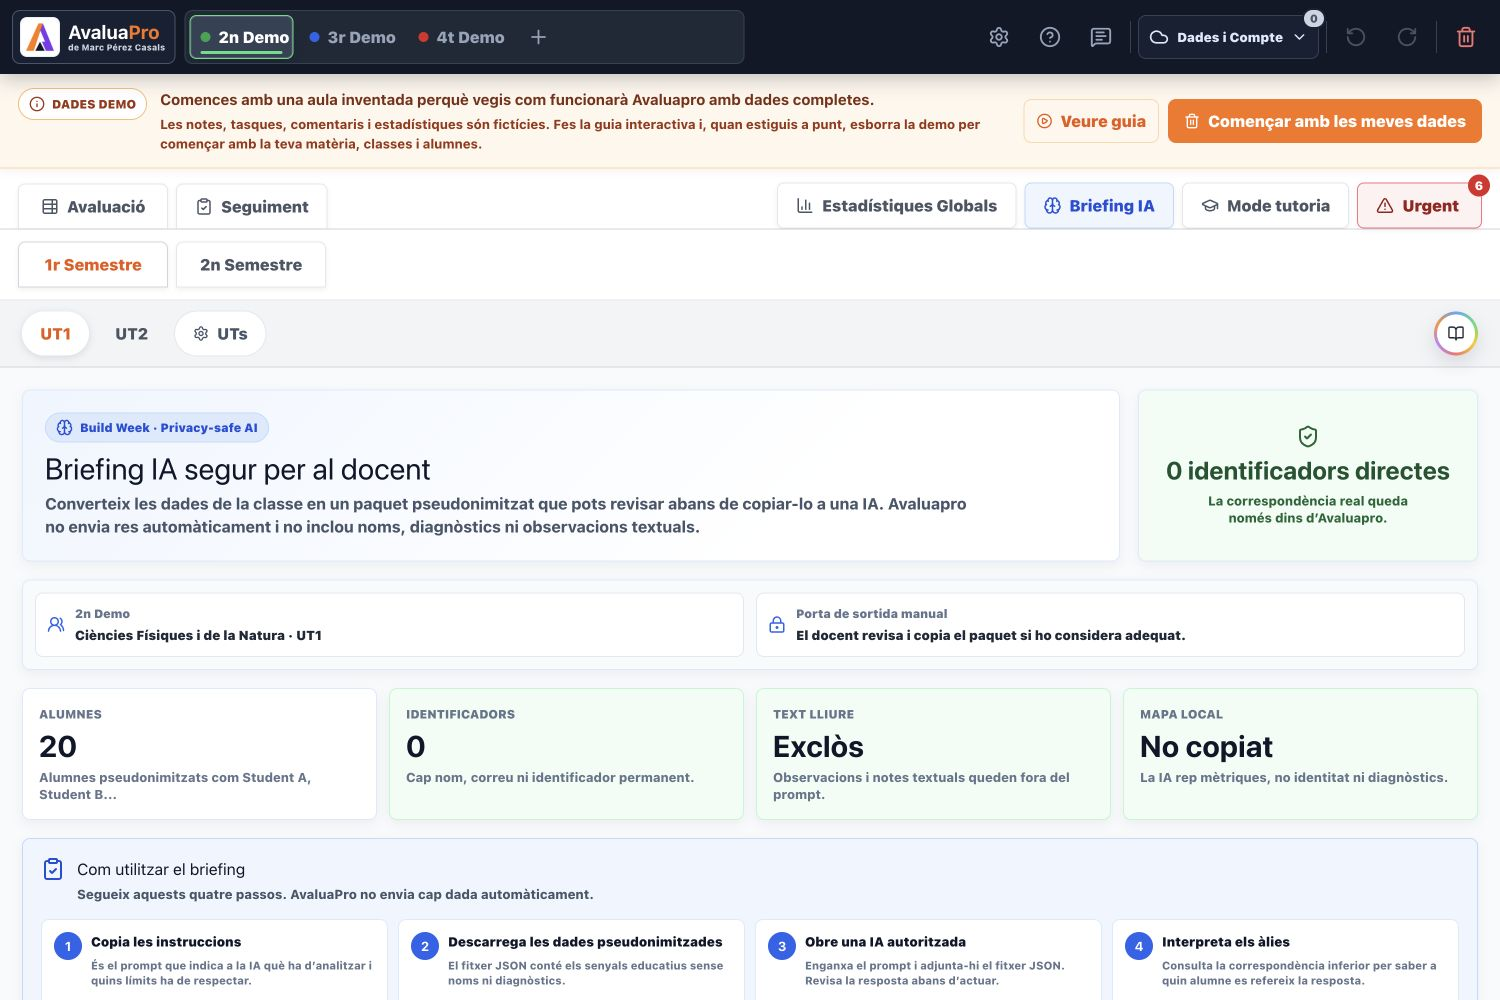
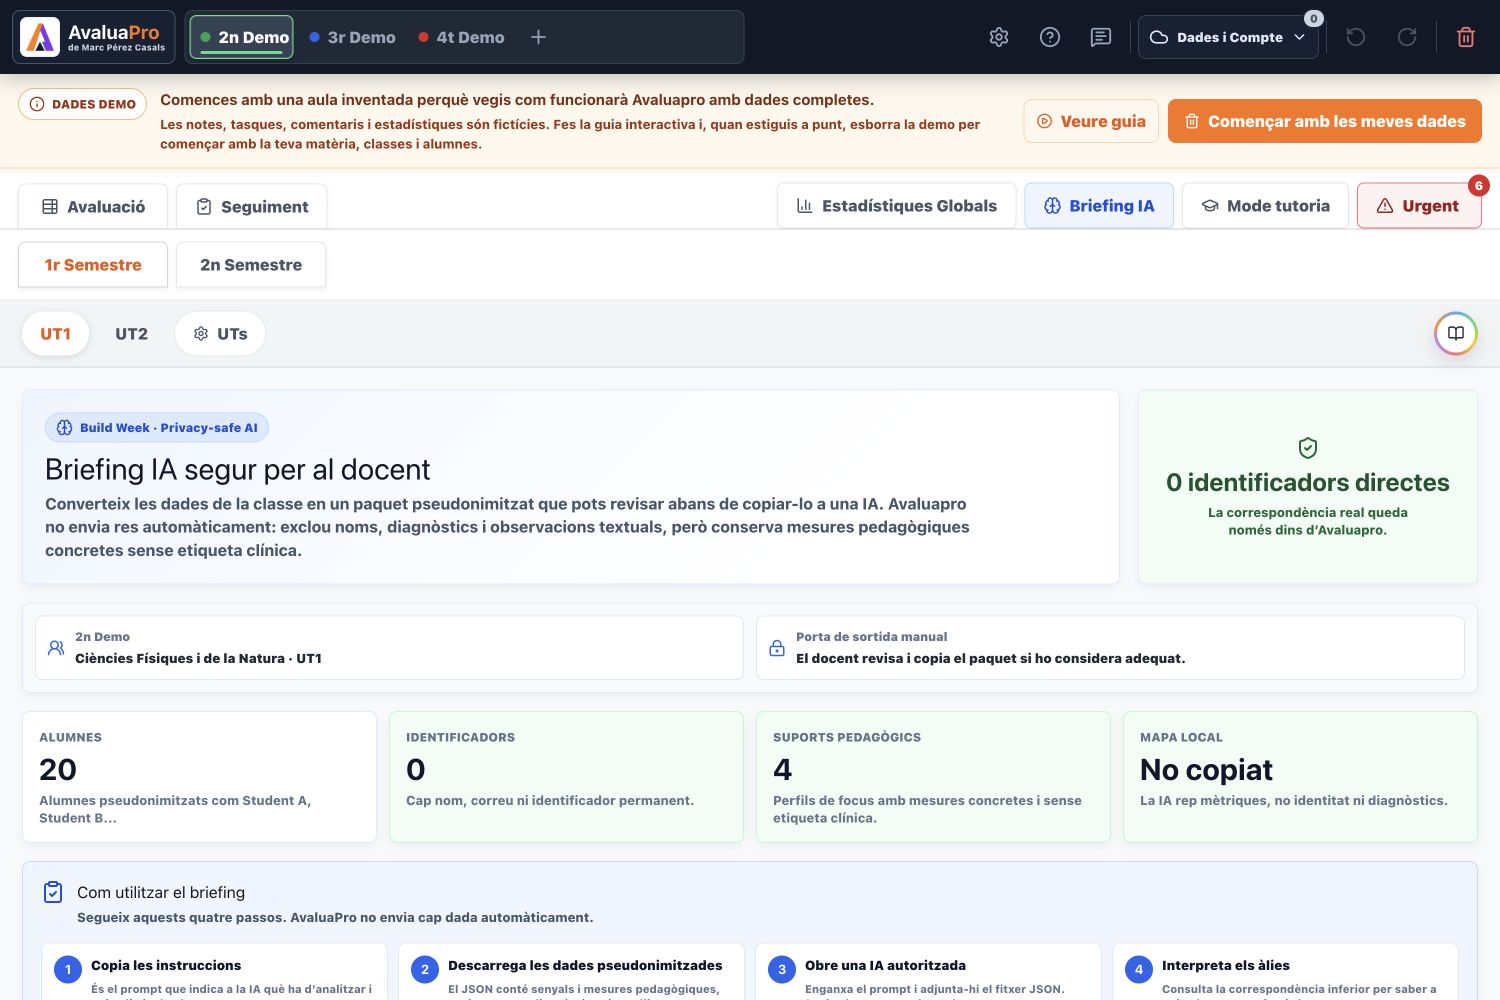
Afegeix suports pedagogics al briefing IA

diff --git a/src/lib/aiTeacherBriefing.js b/src/lib/aiTeacherBriefing.js
@@ -3,6 +3,50 @@ import { getNumericFromGrade } from './grades.js'
 
 const ALIAS_PREFIX = 'Student'
 const MAX_FOCUS_STUDENTS = 8
+const MAX_SUPPORT_NEEDS_PER_STUDENT = 4
+
+const PEDAGOGICAL_SUPPORT_NEEDS = {
+  dyslexia: [
+    'use short, clearly structured instructions',
+    'offer visual or audio access to written content',
+    'allow additional reading and writing time',
+    'offer alternative ways to demonstrate learning',
+  ],
+  dyscalculia: [
+    'break multistep calculations into visible steps',
+    'use visual or concrete representations for mathematical ideas',
+    'allow additional processing time for mathematical tasks',
+    'prioritize reasoning over speed when speed is not the objective',
+  ],
+  tdah: [
+    'use short, single-step instructions',
+    'break long tasks into visible short stages',
+    'use frequent, discreet check-ins',
+    'reduce distractions and allow brief regulation pauses',
+  ],
+  tea: [
+    'use clear, literal and predictable instructions',
+    'anticipate changes in routine or activity',
+    'provide visual schedules and explicit sequences',
+    'make roles and expectations explicit in group work',
+  ],
+  'qi-tdl': [
+    'use short, sequenced instructions with visual support',
+    'check comprehension and reformulate when needed',
+    'allow additional processing and response time',
+    'reduce linguistic load when language is not the learning objective',
+  ],
+  progress: [
+    'set short, observable and achievable learning goals',
+    'make progress visible through frequent formative feedback',
+    'prioritize the next essential learning step',
+  ],
+  'high-capacity': [
+    'offer extension, depth and transfer tasks',
+    'reduce repetitive practice when content is already secure',
+    'allow varied products or self-directed challenges',
+  ],
+}
 
 const EXCLUDED_FROM_AI_PACKAGE = [
   'student names',
@@ -142,6 +186,22 @@ function getSuggestedFocus(signals) {
   return 'Monitor with a short, observable follow-up.'
 }
 
+function getPedagogicalSupportNeeds(diagnoses) {
+  const supportSets = safeArray(diagnoses)
+    .map((diagnosis) => PEDAGOGICAL_SUPPORT_NEEDS[diagnosis] || [])
+    .filter((needs) => needs.length > 0)
+  const interleavedNeeds = []
+  const longestSet = Math.max(0, ...supportSets.map((needs) => needs.length))
+
+  for (let needIndex = 0; needIndex < longestSet; needIndex += 1) {
+    supportSets.forEach((needs) => {
+      if (needs[needIndex]) interleavedNeeds.push(needs[needIndex])
+    })
+  }
+
+  return [...new Set(interleavedNeeds)].slice(0, MAX_SUPPORT_NEEDS_PER_STUDENT)
+}
+
 function buildFocusStudents({ aliasMap, profiles, relations }) {
   return profiles
     .map((profile) => {
@@ -167,6 +227,7 @@ function buildFocusStudents({ aliasMap, profiles, relations }) {
         },
         sociometric: relationStats,
         signals,
+        pedagogicalSupportNeeds: getPedagogicalSupportNeeds(profile.student.diagnoses),
         suggestedFocus: getSuggestedFocus(signals),
         priorityScore,
       }
@@ -253,6 +314,8 @@ function buildPromptPackage({ activeClass, activeUt, aliasMap, classId, profiles
       localIdentityMapIncluded: false,
       freeTextIncluded: false,
       diagnosisLabelsIncluded: false,
+      pedagogicalSupportNeedsIncluded: true,
+      supportNeedsIncludeDiagnosisLabels: false,
       excludedFields: EXCLUDED_FROM_AI_PACKAGE,
       humanReviewRequired: true,
     },
@@ -289,6 +352,7 @@ export function buildAiTeacherBriefingPrompt() {
     'You are an educational planning assistant helping a teacher prepare the next intervention.',
     '',
     'Use only the pseudonymized classroom signals in the attached JSON file. Do not infer identity, diagnosis, family situation, or protected attributes. Do not make final decisions. Produce practical options for human review.',
+    'Pedagogical support needs describe classroom accommodations without diagnosis labels. Use them to contextualize patterns, but never infer or name a diagnosis from them.',
     '',
     'Return:',
     '1. A 5-bullet class briefing.',

diff --git a/src/features/ai/AiTeacherBriefingView.jsx b/src/features/ai/AiTeacherBriefingView.jsx
@@ -109,6 +109,9 @@ export function AiTeacherBriefingView() {
   const { activeClass, activeUt, localIdentityMap, promptPackage, promptText } = briefing
   const promptJson = JSON.stringify(promptPackage, null, 2)
   const excludedFields = promptPackage.privacyGuardrails.excludedFields || []
+  const supportProfileCount = (promptPackage.focusStudents || []).filter(
+    (student) => student.pedagogicalSupportNeeds?.length > 0,
+  ).length
   const activeClassLabel = activeClass?.name || 'Classe activa'
 
   return (
@@ -122,7 +125,8 @@ export function AiTeacherBriefingView() {
           <h2>Briefing IA segur per al docent</h2>
           <p>
             Converteix les dades de la classe en un paquet pseudonimitzat que pots revisar abans de copiar-lo a una IA.
-            Avaluapro no envia res automàticament i no inclou noms, diagnòstics ni observacions textuals.
+            Avaluapro no envia res automàticament: exclou noms, diagnòstics i observacions textuals, però conserva
+            mesures pedagògiques concretes sense etiqueta clínica.
           </p>
         </div>
         <aside>
@@ -162,10 +166,10 @@ export function AiTeacherBriefingView() {
           value="0"
         />
         <BriefingMetric
-          helper="Observacions i notes textuals queden fora del prompt."
-          label="Text lliure"
+          helper="Perfils de focus amb mesures concretes i sense etiqueta clínica."
+          label="Suports pedagògics"
           tone="positive"
-          value="Exclòs"
+          value={supportProfileCount}
         />
         <BriefingMetric
           helper="La IA rep mètriques, no identitat ni diagnòstics."
@@ -196,7 +200,7 @@ export function AiTeacherBriefingView() {
             <strong>2</strong>
             <div>
               <span>Descarrega les dades pseudonimitzades</span>
-              <small>El fitxer JSON conté els senyals educatius sense noms ni diagnòstics.</small>
+              <small>El JSON conté senyals i mesures pedagògiques, però no noms, diagnòstics ni text lliure.</small>
               <DownloadButton content={promptJson} />
             </div>
           </li>
@@ -226,7 +230,7 @@ export function AiTeacherBriefingView() {
             <h3>Què queda fora del paquet IA</h3>
             <p>
               Aquest filtre és intencionat: redueix risc abans d’usar qualsevol proveïdor d’IA i obliga a mantenir
-              revisió humana.
+              revisió humana. Les mesures pedagògiques s’inclouen sense indicar el diagnòstic que les pot haver motivat.
             </p>
           </div>
         </div>

diff --git a/tests/ai-teacher-briefing.test.js b/tests/ai-teacher-briefing.test.js
@@ -60,9 +60,15 @@ describe('privacy-safe AI teacher briefing', () => {
     assert.doesNotMatch(copiedPayload, /tdah/i)
     assert.doesNotMatch(copiedPayload, /Private note/)
     assert.doesNotMatch(copiedPayload, /Raw text mentioning/)
+    assert.match(copiedPayload, /use short, single-step instructions/)
     assert.equal(briefing.promptPackage.privacyGuardrails.directIdentifiersIncluded, false)
     assert.equal(briefing.promptPackage.privacyGuardrails.localIdentityMapIncluded, false)
     assert.equal(briefing.promptPackage.privacyGuardrails.freeTextIncluded, false)
+    assert.equal(briefing.promptPackage.privacyGuardrails.pedagogicalSupportNeedsIncluded, true)
+    assert.equal(briefing.promptPackage.privacyGuardrails.supportNeedsIncludeDiagnosisLabels, false)
+    assert.ok(
+      briefing.promptPackage.focusStudents[0].pedagogicalSupportNeeds.includes('use short, single-step instructions'),
+    )
     assert.equal(briefing.localIdentityMap[0].name, 'Oriol Segarra Puig')
   })
 
@@ -97,5 +103,23 @@ describe('privacy-safe AI teacher briefing', () => {
     assert.ok(firstFocus.signals.includes('low achievement'))
     assert.ok(firstFocus.signals.includes('low work consistency'))
     assert.equal(briefing.promptPackage.competencyFocus[0].competency, 'C1: Reasoning')
+  })
+
+  it('exports concrete support needs without exposing the diagnosis that motivated them', () => {
+    const state = baseState({
+      competencies: [{ id: 'comp_1', name: 'C1: Reasoning', order: 1, utId: 'ut_1' }],
+      criteria: [{ competencyId: 'comp_1', id: 'crit_1' }],
+      marks: [{ criterionId: 'crit_1', id: 'mark_1', studentId: 'student_1', value: 'D' }],
+      students: [{ classId: 'class_1', diagnoses: ['qi-tdl'], id: 'student_1', name: 'Student One' }],
+    })
+
+    const briefing = buildPrivacySafeTeacherBriefing(state)
+    const packageText = JSON.stringify(briefing.promptPackage)
+    const [firstFocus] = briefing.promptPackage.focusStudents
+
+    assert.doesNotMatch(packageText, /qi-tdl/i)
+    assert.doesNotMatch(packageText, /\btdl\b/i)
+    assert.match(packageText, /allow additional processing and response time/)
+    assert.ok(firstFocus.pedagogicalSupportNeeds.length <= 4)
   })
 })

diff --git a/docs/devpost-video-script-en.md b/docs/devpost-video-script-en.md
@@ -15,8 +15,8 @@ Use the live fictitious demo at <https://avaluapro.web.app/>. Do not sign in and
 | 0:15-0:35 | Show competency assessment, then cut to `Seguiment` with tasks, completion states and consistency percentages. | **Teachers can assess competencies, record daily work, follow consistency and behavior, and spot changes throughout the course. Information that was previously scattered becomes one practical classroom workflow.** |
 | 0:35-0:57 | Cut between `Estadístiques Globals`, the main `Mode tutoria` diagnostic, and `Relacions i grups`. Finish with cooperative groups or the seating plan. | **Global analytics connect achievement, habits and behavior. Tutor mode adds sociometry, individual and group diagnostics, cooperative groups and classroom seating, helping teachers turn daily records into personalized action.** |
 | 0:57-1:10 | Return briefly to the global view, then click `Briefing IA`. Pause on its title. | **This working classroom-intelligence foundation existed before Build Week. During the challenge, I used OpenAI Codex to add a new privacy-conscious bridge between all this educational context and AI.** |
-| 1:10-1:32 | Show the title, `0 identificadors directes`, the four summary cards and the excluded-fields list. | **The new AI Teacher Briefing analyzes the fictitious classroom and first applies a privacy gate: zero direct identifiers, no raw free text, no diagnosis labels, and no copied identity map.** |
-| 1:32-1:55 | Show the four-step workflow, `Copiar prompt` and `Descarregar paquet JSON`. Do not upload the demo file anywhere during the recording. | **The teacher copies the instructions and downloads a separate JSON file containing selected competency, consistency, behavior and group signals. Both actions are explicit, and nothing is sent automatically.** |
+| 1:10-1:32 | Show the title, `0 identificadors directes`, the four summary cards and the excluded-fields list. | **The privacy gate removes direct identifiers, raw text and diagnosis labels. It keeps only concrete classroom support needs, such as shorter instructions or additional processing time, without naming their clinical origin.** |
+| 1:32-1:55 | Show the four-step workflow, `Copiar prompt` and `Descarregar paquet JSON`. Do not upload the demo file anywhere during the recording. | **The teacher copies the instructions and downloads a separate JSON file containing selected competency, consistency, behavior, group and pedagogical support signals. Both actions are explicit, and nothing is sent automatically.** |
 | 1:55-2:15 | Show the visible local correspondence, then briefly open the technical details and point at aliases such as `Student F`. | **The package is pseudonymized, not anonymous. The real correspondence stays inside AvaluaPro so the teacher can interpret the AI response, inspect the technical content and retain professional control.** |
 | 2:15-2:35 | Show the GitHub Build Week commit, the generator and React filenames, then a terminal with `npm run test:ai-briefing` passing. | **Codex helped inspect the architecture, build the generator and interface, integrate the workflow, and add privacy tests confirming that names, raw observations and the identity map stay out of the copied package.** |
 | 2:35-2:48 | Return to the top of `Briefing IA`, ending on the title and zero-identifiers panel. | **AvaluaPro does not replace professional judgment. It helps teachers see the right patterns earlier, with privacy and the teacher kept firmly in the loop.** |

diff --git a/docs/proteccio-dades-avaluapro.md b/docs/proteccio-dades-avaluapro.md
@@ -93,13 +93,19 @@ Enviar `alumne A` en lloc del nom es una bona practica, pero normalment continua
 Arquitectura recomanada:
 
 1. no enviar noms, correus, fotos, dades familiars ni diagnostics;
-2. filtrar observacions i limitar text lliure;
-3. enviar el minim context necessari amb un identificador temporal;
-4. no permetre entrenament amb les dades;
-5. establir contracte, ubicacio, retencio i subencarregats;
-6. registrar la finalitat i l'operacio;
-7. mantenir decisio i revisio humana;
-8. activar IA nomes despres de l'AIPD i l'autoritzacio institucional.
+2. si cal context de suport, transformar localment les etiquetes en mesures pedagogiques controlades, sense exportar
+   l'etiqueta clinica ni el seu origen;
+3. filtrar observacions i limitar text lliure;
+4. enviar el minim context necessari amb un identificador temporal;
+5. no permetre entrenament amb les dades;
+6. establir contracte, ubicacio, retencio i subencarregats;
+7. registrar la finalitat i l'operacio;
+8. mantenir decisio i revisio humana;
+9. activar IA nomes despres de l'AIPD i l'autoritzacio institucional.
+
+Les mesures pedagogiques derivades continuen sent dades personals pseudonimitzades i poden suggerir indirectament una
+necessitat educativa. Per tant, s'han de limitar als perfils rellevants, no s'han de descriure com a dades anonimes i han
+de seguir les mateixes garanties de proveidor, finalitat i revisio humana que la resta del paquet.
 
 ## 8. Recomanacio d'arquitectura
 

diff --git a/PRIVACY_FOR_JUDGES.md b/PRIVACY_FOR_JUDGES.md
@@ -80,6 +80,7 @@ The Build Week feature creates a deliberately reduced package from existing clas
 - limited sociometric counts;
 - cooperative-group availability;
 - selected focus-student signals under temporary aliases.
+- a limited set of concrete classroom support needs, without the diagnosis labels that may have motivated them.
 
 ### Excluded
 
@@ -92,7 +93,9 @@ The Build Week feature creates a deliberately reduced package from existing clas
 - the local alias-to-identity map.
 
 The package also records its own guardrails, including that human review is required and direct identifiers, diagnosis
-labels and free text are not included.
+labels and free text are not included. The prompt explicitly prohibits inferring a diagnosis from the support needs.
+These accommodations remain pseudonymized personal data and may still suggest an educational need indirectly; AvaluaPro
+does not present them as anonymous or risk-free.
 
 ## Encryption, Pseudonymization And Anonymization
 

diff --git a/BUILD_WEEK_2026.md b/BUILD_WEEK_2026.md
@@ -47,7 +47,9 @@ It does four things:
 2. Replaces student identities with aliases such as `Student A`, `Student B`, etc.
 3. Excludes names, surnames, emails, photos, diagnosis labels, family information, raw free-text observations and the
    local identity map.
-4. Generates a copyable prompt that asks an AI assistant for class-level and student-level teaching options, while
+4. Converts configured needs into a small controlled set of concrete classroom accommodations without exporting their
+   diagnosis labels.
+5. Generates a copyable prompt that asks an AI assistant for class-level and student-level teaching options, while
    requiring human review.
 
 The local identity map remains visible only inside AvaluaPro and is not included in the copied prompt or JSON package.

diff --git a/README.md b/README.md
@@ -26,6 +26,8 @@ The extension:
 - combines learning, consistency, behavior and sociometric signals;
 - replaces student identities with aliases such as `Student A`;
 - excludes names, surnames, email addresses, photos, diagnosis labels, family information and raw free-text observations;
+- keeps concrete classroom support needs, such as shorter instructions or additional processing time, without exporting
+  the diagnosis label that may have motivated them;
 - keeps the alias-to-identity map inside AvaluaPro and outside the copied package;
 - lets the teacher inspect the exact prompt and JSON before anything leaves the app;
 - requires human review and does not automatically send data to an AI provider.

diff --git a/JUDGES_GUIDE.md b/JUDGES_GUIDE.md
@@ -43,7 +43,8 @@ Scroll to `Com utilitzar el briefing` (`How to use the briefing`). The interface
 
 Open `Veure contingut tècnic del briefing` (`View technical briefing content`) to inspect both pieces. Check that the JSON
 contains classroom metrics, competency signals and aliases such as `Student F`, but no student names, diagnosis labels or
-raw observations.
+raw observations. Some focus profiles include concrete `pedagogicalSupportNeeds`, such as short instructions or additional
+processing time, without identifying the diagnosis that may have motivated the accommodation.
 
 ### 4. Verify The Human Review Boundary
 

diff --git a/docs/full-de-ruta-institucional-i-empresa.md b/docs/full-de-ruta-institucional-i-empresa.md
@@ -763,6 +763,8 @@ La correspondencia entre `A7` i l'alumne ha de quedar dins d'Avaluapro. L'identi
 
 - [ ] Cap nom, cognom, correu o informacio familiar.
 - [ ] Cap diagnostic clinic, tret que existeixi una justificacio excepcional i expressa.
+- [x] Les necessitats de suport que surtin d'Avaluapro s'expressen com a mesures pedagogiques controlades i sense
+  l'etiqueta clinica que les pot haver motivat.
 - [ ] Filtratge de text lliure abans de l'enviament.
 - [ ] Minimitzacio de les dades enviades.
 - [ ] Proveidor que no utilitzi les dades per entrenar models generals.

diff --git a/docs/devpost-media/README.md b/docs/devpost-media/README.md
@@ -6,7 +6,7 @@ Upload the images in this order. All screenshots use AvaluaPro's fictitious demo
 
 File: `04-ai-briefing-privacy-gate.png`
 
-Caption: Privacy-conscious AI Teacher Briefing: zero direct identifiers, no raw text, and teacher review before any data leaves AvaluaPro.
+Caption: The privacy gate removes direct identifiers and diagnosis labels while retaining concrete classroom support needs for better recommendations.
 
 ## 2. Teacher-Controlled AI Workflow
 

diff --git a/docs/devpost-openai-build-week-submission.md b/docs/devpost-openai-build-week-submission.md
@@ -45,6 +45,7 @@ The briefing includes:
 
 - class-level learning, habit and behavior signals;
 - focus students detected from the current classroom data;
+- pedagogical support needs expressed as concrete classroom accommodations without diagnosis labels;
 - sociometric counts and cooperative group context when available;
 - a copyable prompt asking an AI assistant for practical teaching recommendations;
 - a separate downloadable pseudonymized JSON package;
